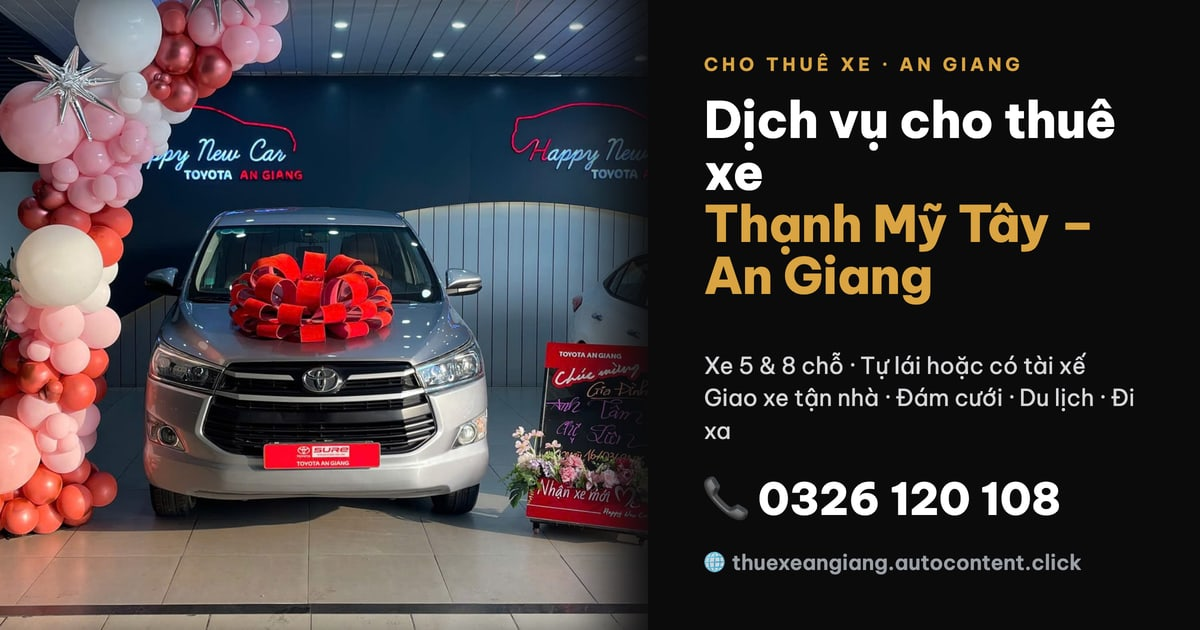
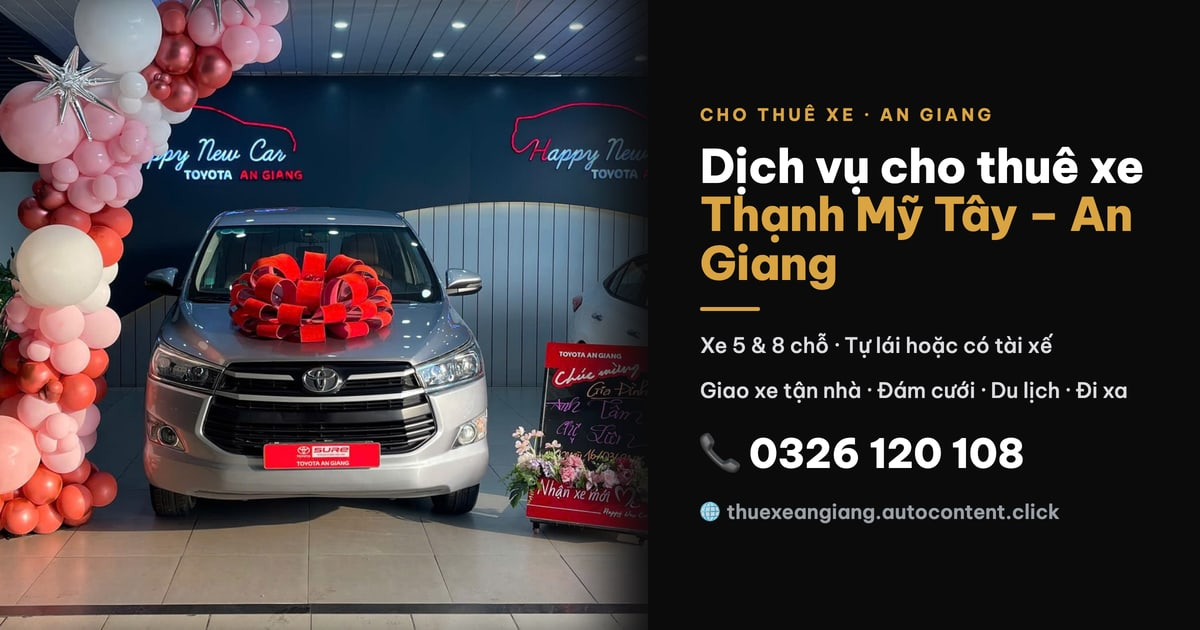
feat(fb): bài FB tự động dạng ẢNH — Groq tạo caption+tiêu đề, ghép lên ảnh xe thật
- scripts/poster.mjs: module render dùng chung (2 layout, ảnh thật + chữ, Playwright→sharp)
- fb-post.mjs: Groq JSON {caption,headline} → render poster → POST /photos, fallback /feed
- make-og.mjs dùng poster.mjs
- fb-post.yml: thêm bước cài Chromium
- sharp vào devDependencies; docs SRS + CLAUDE.md

Changed region(s): [[0.5858, 0.1508, 0.9558, 0.8444], [0.5858, 0.8746, 0.925, 0.9048], [0.5858, 0.0905, 0.8633, 0.1206]]

diff --git a/CLAUDE.md b/CLAUDE.md
@@ -15,7 +15,7 @@ Web cho thuê xe vùng quê (An Giang). **Hiện trạng đầy đủ: đọc `d
 - `components/` — `JourneyHome` (8 chương), `JourneyRail`, `HeroShowcase`, `QuickQuote`, `ContactSheet` (4 mode), `ContactProvider`, `StickyContactBar`, `Car3DViewer`, `Car360`, `CarGallery`, `PriceTable`, `OwnerCard`, `ZaloIcon`…
 - `lib/` — `data.ts` (đọc Supabase + fixtures), `seatGroups.ts` (gom theo số chỗ), `actions.ts` (server actions: partner + **submitBooking** + Telegram), `seo.ts`, `supabase.ts`.
 - `config/` — `brand.ts` (thương hiệu/liên hệ), `services.ts` (dịch vụ + SVC_SUGGEST), `promos.ts` (giá gạch/nhãn ưu đãi theo slug).
-- `hooks/` — `useContact.ts`, `useReveal.ts`. `scripts/fb-post.mjs` (Groq → FB tự động), `scripts/fb-page.mjs` (cập nhật thông tin Page + đăng/ghim bài giới thiệu — chạy tay, cần Page token có `pages_manage_metadata`+`pages_manage_posts` trong `.env.local`), `scripts/make-og.mjs` (sinh `public/og.jpg` 1200×630 từ ảnh thật + thương hiệu, Playwright). `public/cars/` ảnh thật tối ưu (innova/storefront). `supabase/*.sql`. `docs/SRS.md`.
+- `hooks/` — `useContact.ts`, `useReveal.ts`. `scripts/poster.mjs` (module render ảnh dùng chung: ảnh xe thật + chữ, 2 layout, Playwright→sharp), `scripts/fb-post.mjs` (FB tự động **bài ẢNH**: Groq tạo caption+tiêu đề JSON → ghép lên ảnh → đăng `/photos`, lỗi thì fallback `/feed`), `scripts/fb-page.mjs` (cập nhật thông tin Page + đăng/ghim bài giới thiệu — chạy tay, cần Page token có `pages_manage_metadata`+`pages_manage_posts` trong `.env.local`), `scripts/make-og.mjs` (sinh `public/og.jpg` qua `poster.mjs`). `public/cars/` ảnh thật tối ưu (innova/storefront). `supabase/*.sql`. `docs/SRS.md`.
 - **SEO**: `lib/seo.ts` = LocalBusiness(AutoRental) + Product/Offer + **FAQPage** (trang chủ) + **BreadcrumbList** (trang xe). OG/twitter (`summary_large_image`) trỏ `/og.jpg`. Sitemap có `lastModified`. Đổi ảnh OG → chạy lại `node scripts/make-og.mjs`.
 
 ## ⚠️ BẪY QUAN TRỌNG (đừng phá)
@@ -39,7 +39,7 @@ Web cho thuê xe vùng quê (An Giang). **Hiện trạng đầy đủ: đọc `d
 - **Giá / xe / bật-tắt available**: Supabase Table Editor (bảng `cars`). Web tự gom theo số chỗ.
 - **Khuyến mãi**: `config/promos.ts` · **Thương hiệu/liên hệ**: `config/brand.ts` · **Dịch vụ**: `config/services.ts`.
 - **Đơn đặt xe**: bảng `bookings` (status new→called→booked) + báo Telegram (@May_2108_bot).
-- **Nội dung FB post**: `scripts/fb-post.mjs` (Groq prompt + fallback tĩnh).
+- **Nội dung FB post**: `scripts/fb-post.mjs` (Groq tạo caption+tiêu đề; ảnh ghép từ `poster.mjs`). Giá/SĐT/tên xe lấy từ dữ liệu — KHÔNG để AI bịa số. Thêm ảnh xe → bỏ vào `public/cars/` (bỏ `storefront.jpg` khỏi poster). Workflow `fb-post.yml` có bước `npx playwright install chromium` để render trong CI.
 
 ## Secrets (chỉ tên — xem SRS §6)
 Dokploy env: `SUPABASE_URL/ANON_KEY`, `NEXT_PUBLIC_*`, `NEXT_PUBLIC_SITE_URL`, `TELEGRAM_BOT_TOKEN/CHAT_ID`.

diff --git a/docs/SRS.md b/docs/SRS.md
@@ -37,7 +37,7 @@ không rành công nghệ → ưu tiên **gọi/Zalo** và **để lại SĐT ch
 
 ## 5. Tích hợp & lịch chạy (CRON)
 - **Deploy:** GitHub Actions `deploy.yml` (on push `main`) → gọi Dokploy API `application.deploy`. Secret `DOKPLOY_API_KEY`.
-- **FB auto-post:** GitHub Actions `fb-post.yml` — **cron `0 1,5,11 * * *` (3 lần/ngày 8/12/18h VN)** + chạy tay. `scripts/fb-post.mjs` đọc xe Supabase → **Groq** (llama-3.3-70b) tạo bài biến hoá (fallback mẫu tĩnh) → Graph API `POST /{page}/feed`. Page Graph id **1147502741786246**.
+- **FB auto-post:** GitHub Actions `fb-post.yml` — **cron `0 1,5,11 * * *` (3 lần/ngày 8/12/18h VN)** + chạy tay. `scripts/fb-post.mjs` đọc xe Supabase → **Groq** (llama-3.3-70b, JSON) tạo **caption + tiêu đề** biến hoá → ghép tiêu đề lên **ảnh xe thật** (`scripts/poster.mjs`, 2 layout, render Playwright→sharp) → đăng **bài ẢNH** `POST /{page}/photos`; lỗi render/đăng thì **fallback** bài chữ `/feed`. Giá/SĐT/tên xe lấy từ dữ liệu (AI không bịa số). Workflow có bước cài Chromium. Page Graph id **1147502741786246**.
 - **Telegram báo đơn:** realtime trong server action (env Dokploy), bot **@May_2108_bot** → chat id chủ xe.
 
 ## 6. Biến môi trường / Secrets (chỉ tên — giá trị không lưu ở repo)